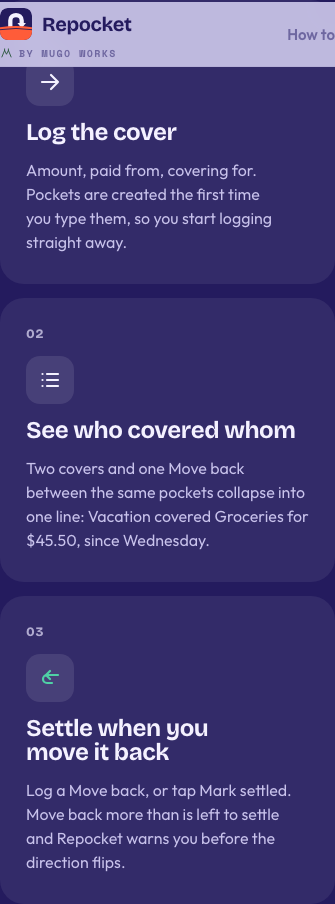
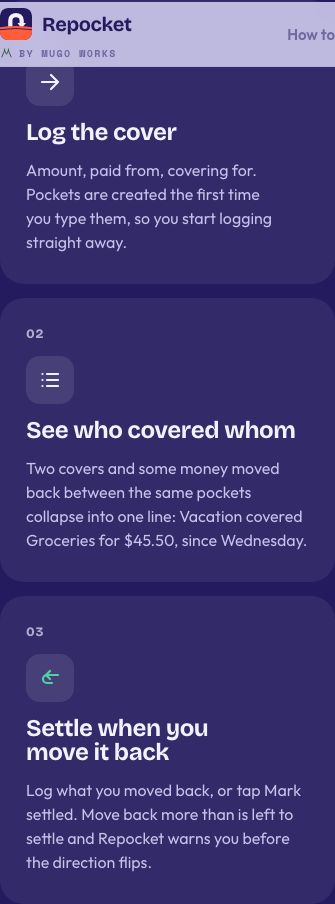
fix(copy): the landing page says cover and move back in lowercase prose [repocket-site-6dc]
Prose uses the lowercase words from terminology.md; capitals stay for quoted
labels only (Mark settled, "Flip the direction?", Save):

- Step 02: "one Move back" becomes "some money moved back".
- Step 03: "Log a Move back" becomes "Log what you moved back".
- The Free card and the "What can I do for free?" answer: "log every Cover
  and Move back" becomes "log what you cover and what you move back".

Refreshes the index renders (full page, steps, pricing, FAQ) at 375 and 1440.

Bead: repocket-site-6dc

Changed region(s): [[0.0896, 0.4956, 0.9254, 0.6195], [0.0597, 0.8673, 0.8955, 0.9602]]

diff --git a/index.html b/index.html
@@ -128,8 +128,8 @@ footer{padding:40px 0 60px;border-top:1px solid rgba(36,27,94,.1);font-size:14px
  <div class="sec-h reveal"><h2><span data-l="en">One sentence in. Everything else derived.</span><span data-l="de">Ein Satz rein. Alles andere abgeleitet.</span></h2><p class="lead"><span data-l="en">Repocket stores entries. Who covered whom, totals, since-dates and stats all fall out of the entries, so it is ready from the first one.</span><span data-l="de">Repocket speichert Einträge. Schulden, Summen, Seit-Daten und Statistik ergeben sich aus den Einträgen, also ist es ab dem ersten Eintrag bereit.</span></p></div>
  <div class="steps">
   <div class="step reveal"><span class="n">01</span><div class="ic"><svg width="24" height="24" viewBox="0 0 24 24" fill="none" stroke="#F4F1FF" stroke-width="2.2" stroke-linecap="round" stroke-linejoin="round"><path d="M4 12h16M13 5l7 7-7 7"/></svg></div><h3><span data-l="en">Log the cover</span><span data-l="de">Leihe eintragen</span></h3><p><span data-l="en">Amount, paid from, covering for. Pockets are created the first time you type them, so you start logging straight away.</span><span data-l="de">Betrag, bezahlt aus, hätte kommen sollen aus. Taschen entstehen beim ersten Tippen, du legst also sofort los.</span></p></div>
-  <div class="step reveal"><span class="n">02</span><div class="ic"><svg width="24" height="24" viewBox="0 0 24 24" fill="none" stroke="#F4F1FF" stroke-width="2.2" stroke-linecap="round"><path d="M9 6h11M9 12h11M9 18h11M4.5 6h.01M4.5 12h.01M4.5 18h.01"/></svg></div><h3><span data-l="en">See who covered whom</span><span data-l="de">Sehen, wer wem schuldet</span></h3><p><span data-l="en">Two covers and one Move back between the same pockets collapse into one line: Vacation covered Groceries for $45.50, since Wednesday.</span><span data-l="de">Zwei Leihen und eine Teilrückzahlung zwischen denselben Taschen werden eine Zeile: Lebensmittel schuldet Urlaub 45,50 €, seit Mittwoch.</span></p></div>
-  <div class="step reveal"><span class="n">03</span><div class="ic"><svg width="24" height="24" viewBox="0 0 24 24" fill="none" stroke="#4FD1A5" stroke-width="2.2" stroke-linecap="round" stroke-linejoin="round"><path d="M20 9H9a4 4 0 0 0 0 8h5M12 5L8 9l4 4"/></svg></div><h3><span data-l="en">Settle when you move it back</span><span data-l="de">Ausgleichen, wenn du zurückbuchst</span></h3><p><span data-l="en">Log a Move back, or tap Mark settled. Move back more than is left to settle and Repocket warns you before the direction flips.</span><span data-l="de">Rückzahlung eintragen oder auf Ausgleichen tippen. Zahlst du mehr zurück als geschuldet, warnt Repocket, bevor sich die Schuld umkehrt.</span></p></div>
+  <div class="step reveal"><span class="n">02</span><div class="ic"><svg width="24" height="24" viewBox="0 0 24 24" fill="none" stroke="#F4F1FF" stroke-width="2.2" stroke-linecap="round"><path d="M9 6h11M9 12h11M9 18h11M4.5 6h.01M4.5 12h.01M4.5 18h.01"/></svg></div><h3><span data-l="en">See who covered whom</span><span data-l="de">Sehen, wer wem schuldet</span></h3><p><span data-l="en">Two covers and some money moved back between the same pockets collapse into one line: Vacation covered Groceries for $45.50, since Wednesday.</span><span data-l="de">Zwei Leihen und eine Teilrückzahlung zwischen denselben Taschen werden eine Zeile: Lebensmittel schuldet Urlaub 45,50 €, seit Mittwoch.</span></p></div>
+  <div class="step reveal"><span class="n">03</span><div class="ic"><svg width="24" height="24" viewBox="0 0 24 24" fill="none" stroke="#4FD1A5" stroke-width="2.2" stroke-linecap="round" stroke-linejoin="round"><path d="M20 9H9a4 4 0 0 0 0 8h5M12 5L8 9l4 4"/></svg></div><h3><span data-l="en">Settle when you move it back</span><span data-l="de">Ausgleichen, wenn du zurückbuchst</span></h3><p><span data-l="en">Log what you moved back, or tap Mark settled. Move back more than is left to settle and Repocket warns you before the direction flips.</span><span data-l="de">Rückzahlung eintragen oder auf Ausgleichen tippen. Zahlst du mehr zurück als geschuldet, warnt Repocket, bevor sich die Schuld umkehrt.</span></p></div>
  </div>
  <div class="os">
   <div class="reveal"><h3 style="font-size:clamp(28px,3vw,40px)"><span data-l="en">Lives on the home screen, not in a tab you forget.</span><span data-l="de">Lebt auf dem Home-Bildschirm, nicht in einem vergessenen Tab.</span></h3><p class="lead" style="margin-top:16px"><span data-l="en">Widgets in three sizes with a Settled button that works right on the Home Screen. Ask Siri and get an answer in one sentence.</span><span data-l="de">Widgets in drei Größen mit einem Erledigt-Knopf, der direkt auf dem Home-Bildschirm funktioniert. Frag Siri und bekomm die Antwort in einem Satz.</span></p></div>
@@ -145,7 +145,7 @@ footer{padding:40px 0 60px;border-top:1px solid rgba(36,27,94,.1);font-size:14px
 <section id="price" class="dark"><div class="wrap">
  <div class="sec-h reveal"><h2><span data-l="en">Free to start. Pay once for the rest.</span><span data-l="de">Gratis starten. Einmal zahlen für den Rest.</span></h2><p class="lead"><span data-l="en">Free with 3 pockets. $4.99 once adds unlimited pockets, widgets, Siri and stats. Your ledger stays either way.</span><span data-l="de">Gratis mit 3 Taschen. Ein Kauf für 4,99 € schaltet unbegrenzte Taschen, Widgets, Siri und Statistik frei. Dein Verzeichnis bleibt so oder so.</span></p></div>
  <div class="price">
-  <div class="pc reveal" style="background:rgba(255,255,255,.07);color:#F4F1FF"><span class="k" style="color:#C9C3EC"><span data-l="en">Free</span><span data-l="de">Gratis</span></span><b><span data-l="en">3 pockets</span><span data-l="de">3 Taschen</span></b><p style="color:#C9C3EC"><span data-l="en">The whole ledger, as long as you like: log every Cover and Move back, see who covered whom, settle, and export to CSV or JSON. The whole ledger stays on your iPhone and in your private iCloud.</span><span data-l="de">Das ganze Verzeichnis, so lange du willst: Leihen und Rückzahlungen eintragen, sehen, was jede Tasche schuldet, ausgleichen und als CSV oder JSON exportieren. Das ganze Verzeichnis bleibt auf deinem iPhone und in deiner privaten iCloud.</span></p></div>
+  <div class="pc reveal" style="background:rgba(255,255,255,.07);color:#F4F1FF"><span class="k" style="color:#C9C3EC"><span data-l="en">Free</span><span data-l="de">Gratis</span></span><b><span data-l="en">3 pockets</span><span data-l="de">3 Taschen</span></b><p style="color:#C9C3EC"><span data-l="en">The whole ledger, as long as you like: log what you cover and what you move back, see who covered whom, settle, and export to CSV or JSON. The whole ledger stays on your iPhone and in your private iCloud.</span><span data-l="de">Das ganze Verzeichnis, so lange du willst: Leihen und Rückzahlungen eintragen, sehen, was jede Tasche schuldet, ausgleichen und als CSV oder JSON exportieren. Das ganze Verzeichnis bleibt auf deinem iPhone und in deiner privaten iCloud.</span></p></div>
   <div class="pc gold reveal"><span class="k"><span data-l="en">Unlock once</span><span data-l="de">Einmal freischalten</span></span><div class="prow"><b><span data-l="en">$4.99</span><span data-l="de">4,99 €</span></b><span class="tag"><span data-l="en">One-time purchase</span><span data-l="de">Einmaliger Kauf</span></span></div><ul><li><span class="tick" aria-hidden="true"><svg width="12" height="12" viewBox="0 0 24 24" fill="none" stroke="#fff" stroke-width="3.4" stroke-linecap="round" stroke-linejoin="round"><path d="M6 12l4 4 8-9"/></svg></span><span data-l="en">Home Screen widgets</span><span data-l="de">Widgets auf dem Home-Bildschirm</span></li><li><span class="tick" aria-hidden="true"><svg width="12" height="12" viewBox="0 0 24 24" fill="none" stroke="#fff" stroke-width="3.4" stroke-linecap="round" stroke-linejoin="round"><path d="M6 12l4 4 8-9"/></svg></span><span data-l="en">Siri and Shortcuts</span><span data-l="de">Siri und Kurzbefehle</span></li><li><span class="tick" aria-hidden="true"><svg width="12" height="12" viewBox="0 0 24 24" fill="none" stroke="#fff" stroke-width="3.4" stroke-linecap="round" stroke-linejoin="round"><path d="M6 12l4 4 8-9"/></svg></span><span data-l="en">Stats</span><span data-l="de">Statistik</span></li><li><span class="tick" aria-hidden="true"><svg width="12" height="12" viewBox="0 0 24 24" fill="none" stroke="#fff" stroke-width="3.4" stroke-linecap="round" stroke-linejoin="round"><path d="M6 12l4 4 8-9"/></svg></span><span data-l="en">Unlimited pockets</span><span data-l="de">Unbegrenzte Taschen</span></li></ul></div>
   <div class="pc reveal" style="background:rgba(255,255,255,.07);color:#F4F1FF"><span class="k" style="color:#C9C3EC"><span data-l="en">Need a fourth pocket?</span><span data-l="de">Eine vierte Tasche?</span></span><b><span data-l="en">Archive or unlock</span><span data-l="de">Archivieren oder freischalten</span></b><p style="color:#C9C3EC"><span data-l="en">Archive a pocket once everything with it is settled, and its slot opens for a new pocket. If you have a read-only pocket, that one takes the slot. Or unlock to lift the cap.</span><span data-l="de">Archiviere eine Tasche, sobald ihre Schulden ausgeglichen sind, dann wird ihr Platz für eine neue Tasche frei. Hast du eine schreibgeschützte Tasche, rückt diese nach. Oder schalte frei, um die Grenze aufzuheben.</span></p></div>
  </div>
@@ -166,7 +166,7 @@ footer{padding:40px 0 60px;border-top:1px solid rgba(36,27,94,.1);font-size:14px
  <div class="faq reveal">
   <details><summary><span data-l="en">Is this a budgeting app?</span><span data-l="de">Ist das eine Budget-App?</span></summary><p><span data-l="en">Repocket is a ledger for what's left to settle, between pockets, accounts or people. Your bank already keeps balances and budgets. Repocket records the one thing the bank cannot: when one pocket covers for another.</span><span data-l="de">Repocket ist ein Verzeichnis für die Schulden zwischen deinen eigenen Taschen. Salden und Budgets führt deine Bank schon. Repocket merkt sich das eine, was die Bank nicht kann: eine Zahlung, die aus einer anderen Tasche hätte kommen sollen.</span></p></details>
   <details><summary><span data-l="en">Does it connect to my bank?</span><span data-l="de">Verbindet es sich mit meiner Bank?</span></summary><p><span data-l="en">Repocket works from the entries you type. Pockets are just names; they can be Monzo pots, Revolut vaults, a joint account, money you hold for someone, or envelopes in a drawer.</span><span data-l="de">Repocket arbeitet mit den Einträgen, die du tippst. Taschen sind nur Namen; das können N26 Spaces, DKB Unterkonten oder Umschläge in der Schublade sein.</span></p></details>
-  <details><summary><span data-l="en">What can I do for free?</span><span data-l="de">Was kann ich gratis machen?</span></summary><p><span data-l="en">Everything the ledger does, with up to three active pockets: log every Cover and Move back, see who covered whom, settle, open a pocket's details, and export to CSV or JSON. Widgets, Siri and Shortcuts, stats and unlimited pockets come with the one-time $4.99 unlock.</span><span data-l="de">Alles, was das Verzeichnis kann, mit bis zu drei aktiven Taschen: Leihen und Rückzahlungen eintragen, sehen, was jede Tasche schuldet, ausgleichen, die Details einer Tasche öffnen und als CSV oder JSON exportieren. Widgets, Siri und Kurzbefehle, Statistik und unbegrenzte Taschen kommen mit dem einmaligen Kauf für 4,99 €.</span></p></details>
+  <details><summary><span data-l="en">What can I do for free?</span><span data-l="de">Was kann ich gratis machen?</span></summary><p><span data-l="en">Everything the ledger does, with up to three active pockets: log what you cover and what you move back, see who covered whom, settle, open a pocket's details, and export to CSV or JSON. Widgets, Siri and Shortcuts, stats and unlimited pockets come with the one-time $4.99 unlock.</span><span data-l="de">Alles, was das Verzeichnis kann, mit bis zu drei aktiven Taschen: Leihen und Rückzahlungen eintragen, sehen, was jede Tasche schuldet, ausgleichen, die Details einer Tasche öffnen und als CSV oder JSON exportieren. Widgets, Siri und Kurzbefehle, Statistik und unbegrenzte Taschen kommen mit dem einmaligen Kauf für 4,99 €.</span></p></details>
   <details><summary><span data-l="en">What if I move back more than is left to settle?</span><span data-l="de">Was, wenn ich mehr zurückzahle als geschuldet?</span></summary><p><span data-l="en">Repocket asks “Flip the direction?” before it saves. Tap Save and the difference counts as a cover the other way round.</span><span data-l="de">Repocket warnt vor dem Sichern, weil sich die Schuld umkehren würde. Bestätigst du, schuldet jetzt die andere Tasche die Differenz.</span></p></details>
   <details><summary><span data-l="en">Android? iPad? Shared with a partner?</span><span data-l="de">Android? iPad? Mit Partner teilen?</span></summary><p><span data-l="en">Repocket is an iPhone app. It syncs across your own devices through iCloud. The ledger is yours, and a pocket can stand for a joint account or for money you hold for someone.</span><span data-l="de">Repocket ist eine iPhone-App. Sie synchronisiert über iCloud zwischen deinen eigenen Geräten und dreht sich um die Schulden zwischen deinen eigenen Taschen.</span></p></details>
  </div>
